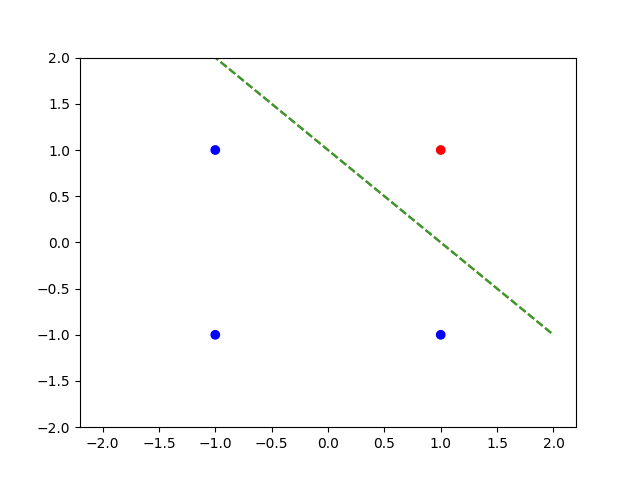
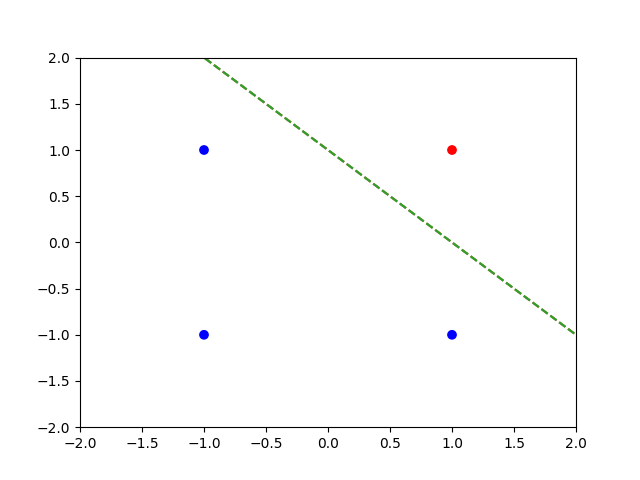
Plot decision boundary until edges of plot

diff --git a/src/visualise.py b/src/visualise.py
@@ -20,9 +20,10 @@ def set_scale(scale: int):
 def abline(intercept, slope):
     """Plot a line from slope and intercept"""
     axes = plt.gca()
-    axes.set_xbound(-SCALE, SCALE)
+    axes.set_xbound(-SCALE*1.5, SCALE*1.5)
     x_vals = np.array(axes.get_xlim())
     y_vals = intercept + slope * x_vals
+    plt.xlim(-SCALE, SCALE)
     plt.ylim(-SCALE, SCALE)
     plt.plot(x_vals, y_vals, '--')
 
